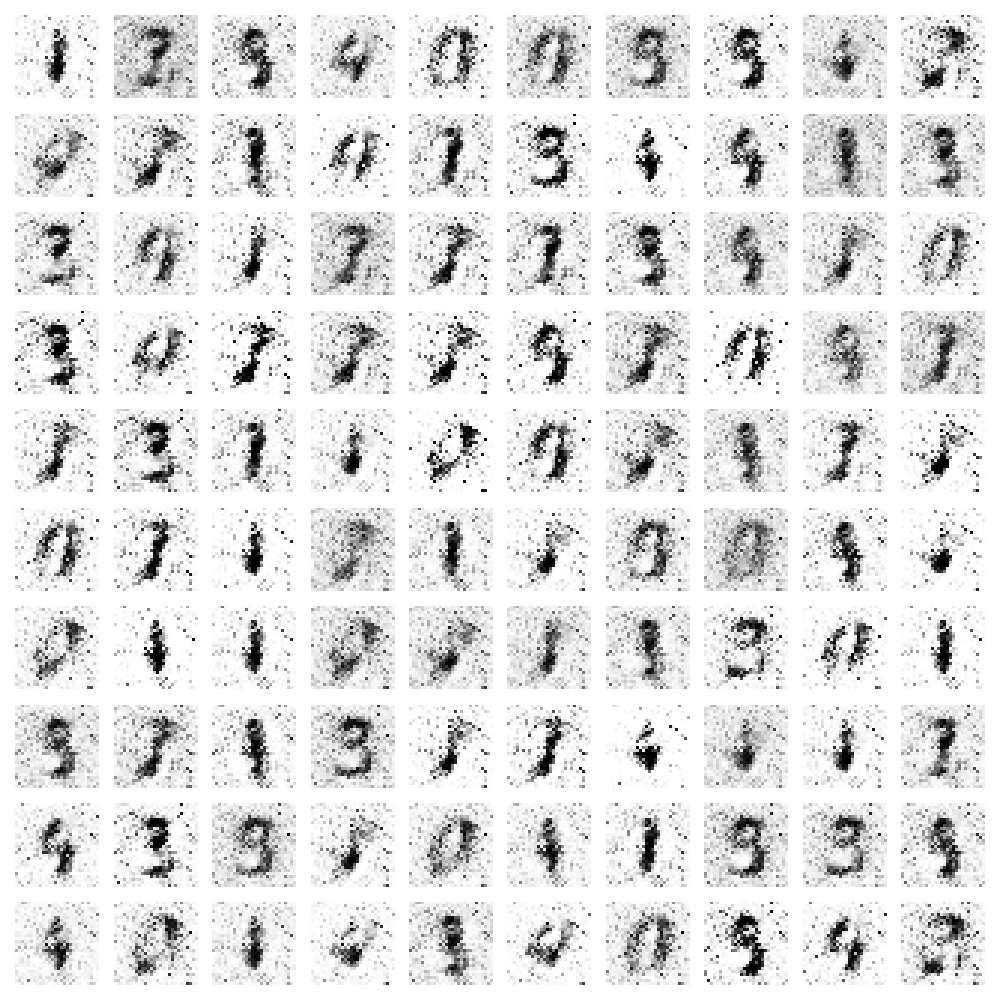
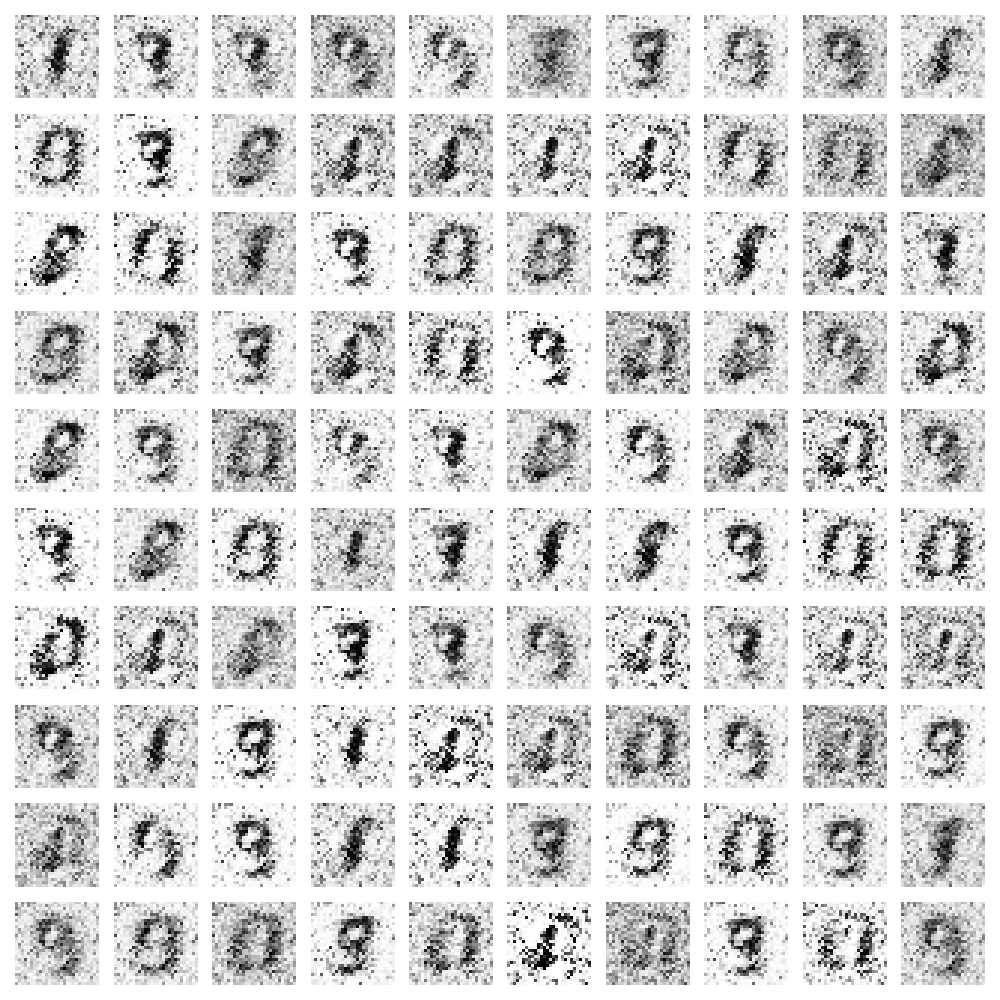
edits

diff --git a/forest.py b/forest.py
@@ -2,24 +2,52 @@
     Dave Perkins. Created on May 31, 2019 '''
 
 import gan
+import tree
 from random import choice
 
 random_dim = 100
 
 def main():
-    gancontrol = gan.GAN(random_dim) #control
+    # gancontrol = gan.GAN(random_dim) #control
+    # gen = gan.Generator()
+    # disca = gan.Discriminator()
+    # discb = gan.Discriminator()
+    # testgans = [gan.GAN(random_dim, generator=gen, discriminator=disca),
+    #             gan.GAN(random_dim, generator=gen, discriminator=discb)]
+    #
+    # epochs = 15
+    #
+    # gancontrol.train(epochs=epochs)
+    #
+    # for i in range(1, epochs+1):
+    #     choice(testgans).train(id=i)
+
+    # tree1 = tree.Tree()
+    # tree2 = tree.Tree()
+    #
+    # gan1 = gan.GAN(random_dim, generator=tree1.generator, discriminator=tree2.discriminator)
+    #
+    # for _ in range(1):
+    #     gan1.train()
+    #     tree1.brain.train(plot=False)
+    #     tree2.brain.train(plot=False)
+    #
+    # tree3 = tree.Tree()
+    #
+    # gan2 = gan.GAN(random_dim, generator=tree3.generator, discriminator=tree1.discriminator)
+    #
+    # gan2.train()
+
     gen = gan.Generator()
-    disca = gan.Discriminator()
-    discb = gan.Discriminator()
-    testgans = [gan.GAN(random_dim, generator=gen, discriminator=disca),
-                gan.GAN(random_dim, generator=gen, discriminator=discb)]
+    disc1 = gan.Discriminator()
+    disc2 = gan.Discriminator()
 
-    epochs = 15
+    gan1 = gan.GAN(random_dim, generator=gen, discriminator=disc1)
+    gan1.train(epochs=10)
 
-    gancontrol.train(epochs=epochs)
+    gan2 = gan.GAN(random_dim, generator=gen, discriminator=disc2)
+    gan2.train(epochs=5)
 
-    for i in range(1, epochs+1):
-        choice(testgans).train(id=i)
 
 
 if __name__ == '__main__':

diff --git a/gan.py b/gan.py
@@ -74,7 +74,7 @@ class GAN:
         self.GAN = Model(inputs=self.input, outputs=self.output)
         self.GAN.compile(loss='binary_crossentropy', optimizer=self.O)
 
-    def train(self, epochs=1, batch_size=128, data_loaded=False, id=1):
+    def train(self, epochs=1, batch_size=128, data_loaded=False, id=1, plot=True):
         # Get the training and testing data
         x_train, y_train, x_test, y_test = 0, 0, 0, 0
         if data_loaded:
@@ -113,7 +113,8 @@ class GAN:
                 self.toggleDTrain()
 
                 self.GAN.train_on_batch(noise, np.ones(batch_size))
-            plot_generated_images(id, self.G, self)
+            if plot and (id == 1 or id % 5 == 0):
+                plot_generated_images(id, self.G, self)
             id += 1
 
     def toggleDTrain(self):

diff --git a/tree.py b/tree.py
@@ -1,0 +1,12 @@
+""" Implementation for a "tree" class. By Kenny Talarico and Ian Nduhiu, June
+    2019. """
+
+import gan
+
+random_dim = 100
+
+class Tree:
+    def __init__(self):
+        self.generator = gan.Generator()
+        self.discriminator = gan.Discriminator()
+        self.brain = gan.GAN(random_dim, generator=self.generator, discriminator=self.discriminator)
